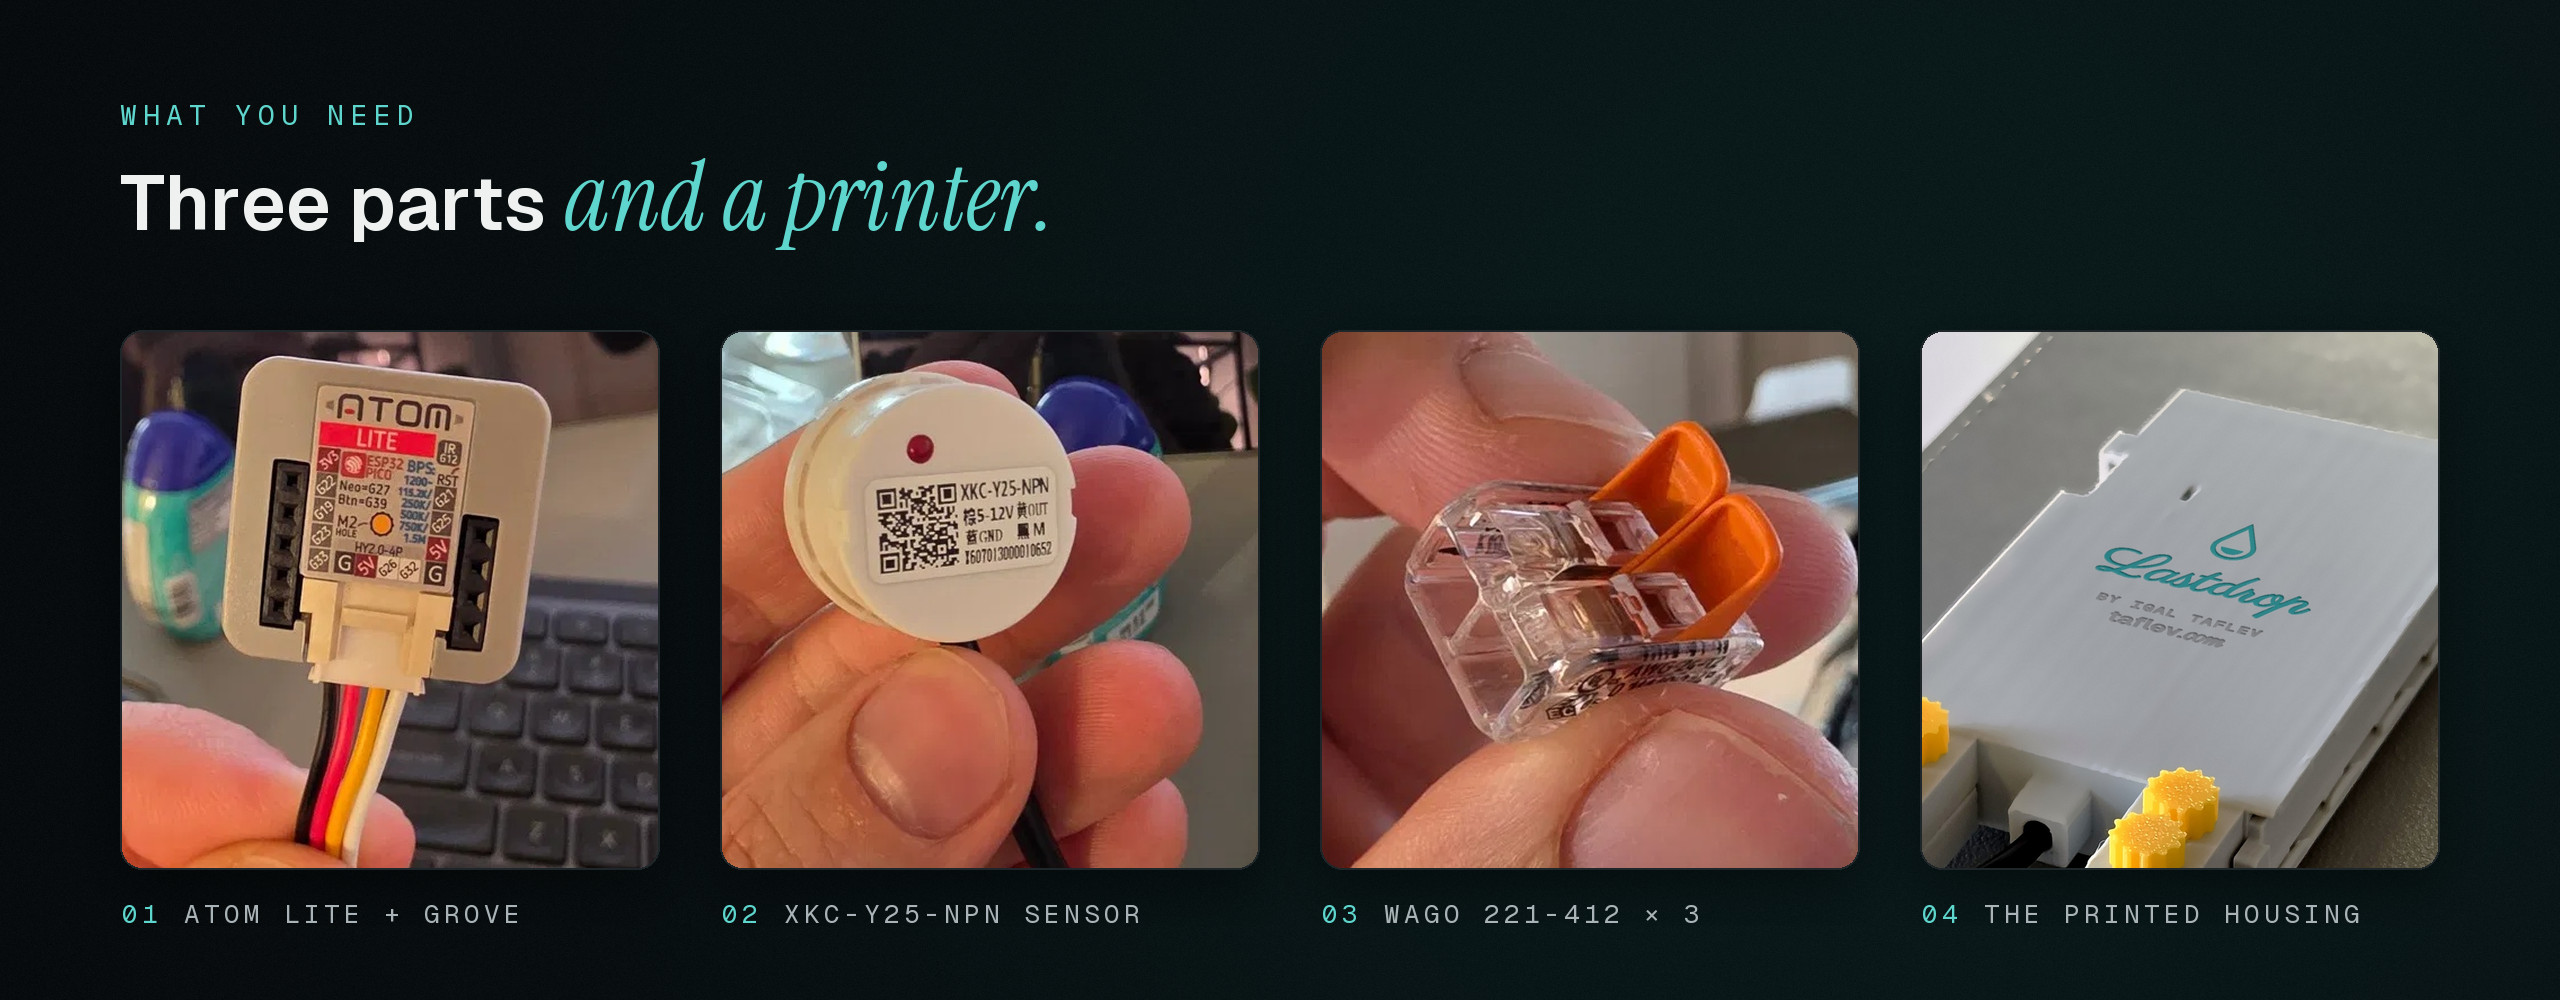
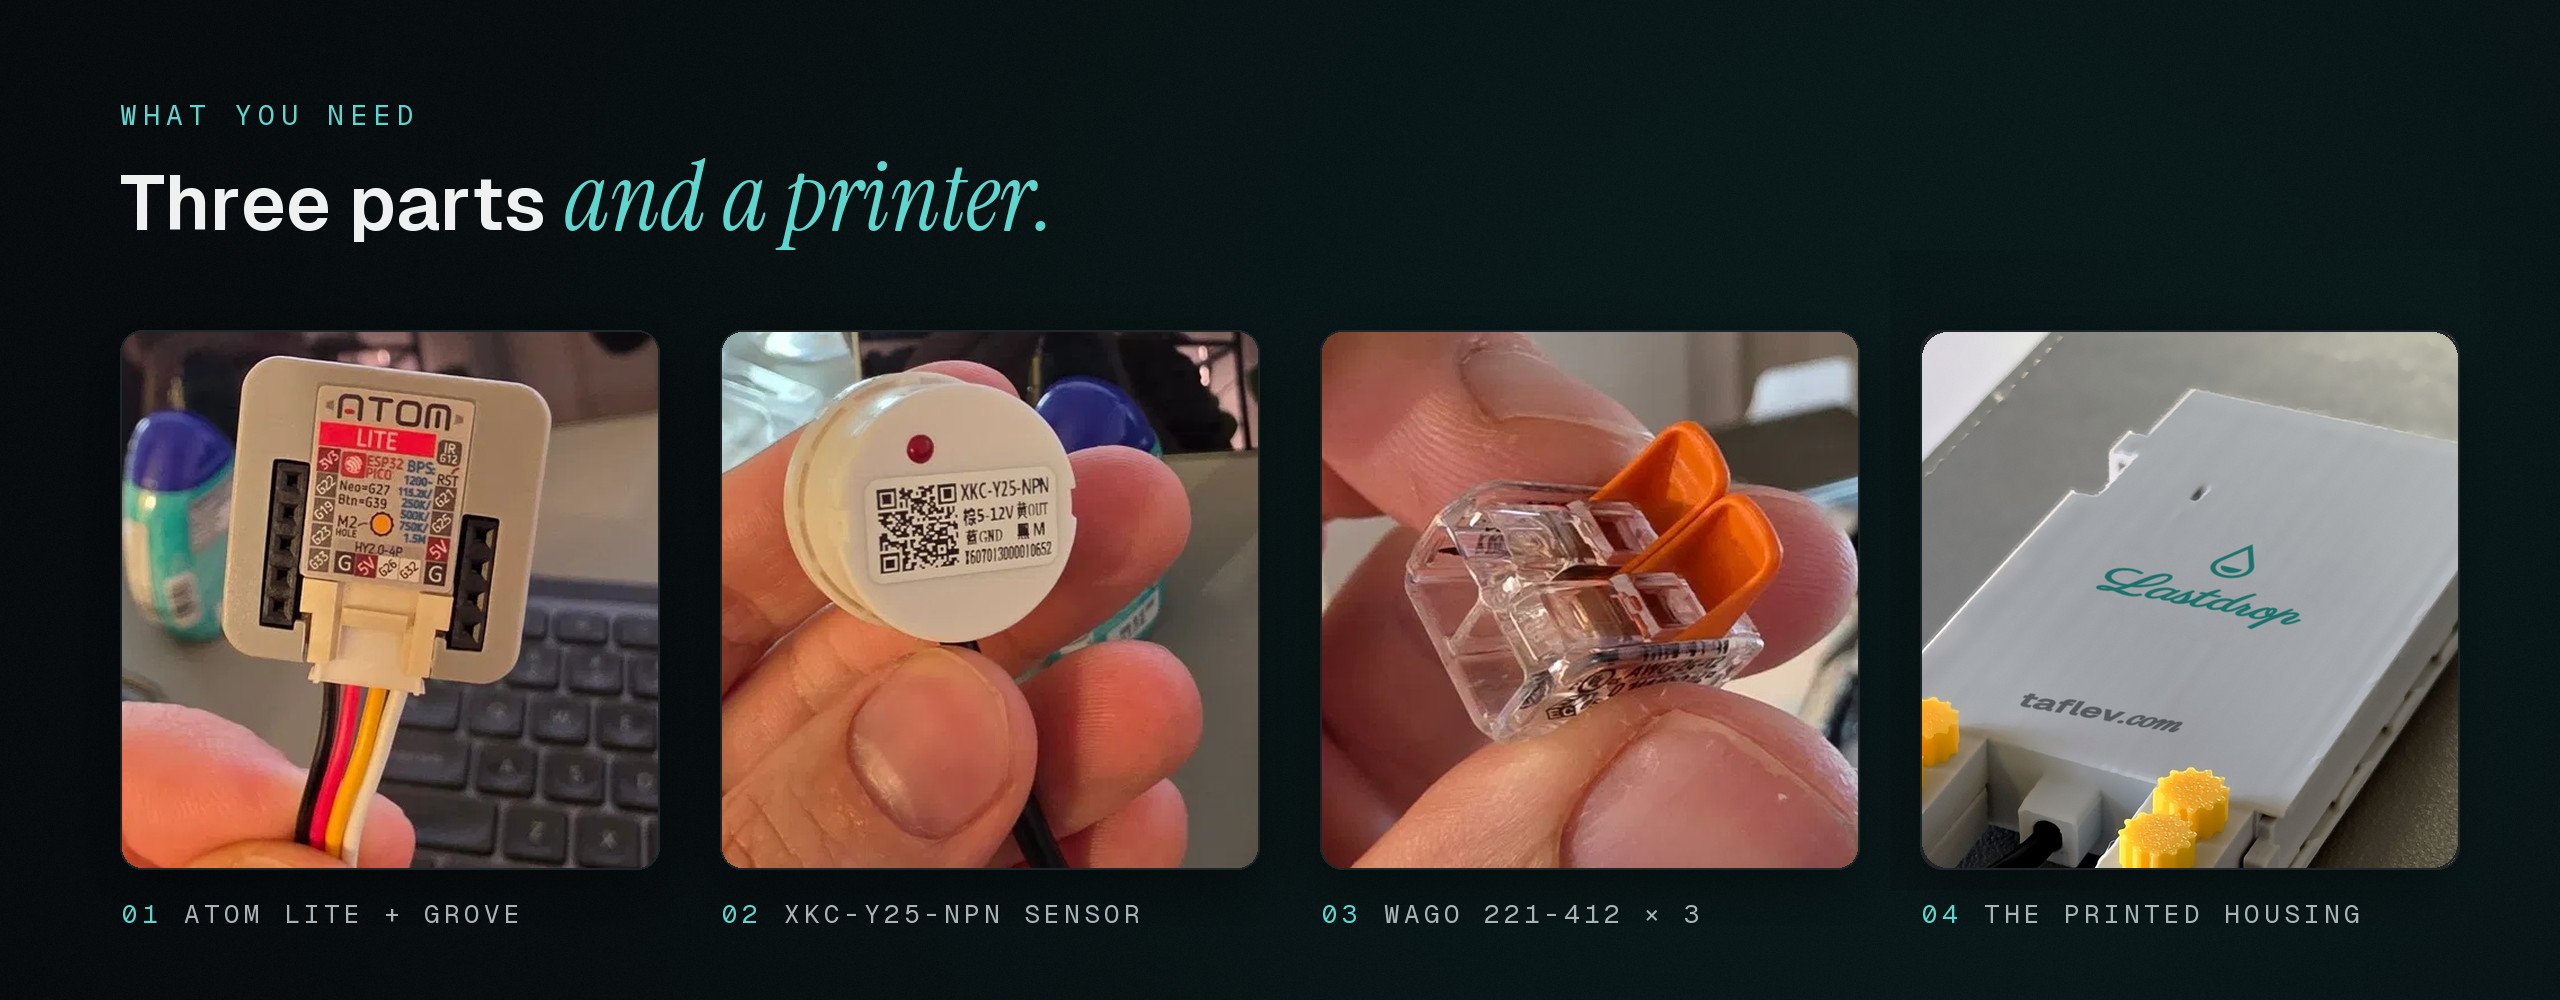
Photos and docs: no more byline on the LED face
The close-up photo of the first print still showed the old byline. The engraving in it is redrawn
to the current layout (logo, taflev.com at the bottom), in panel-real and panel-parts.

diff --git a/3d/housing/build.py b/3d/housing/build.py
@@ -45,7 +45,7 @@ NAME_GROW = 0.20                                 # outline grown per side: the s
 # line: (text, cap/x height, extra letter spacing, grow) in BYLINE_FONT, or a dict of font segments on one baseline (see branding.rich_line)
 import os
 _F = lambda n: os.path.join(os.path.dirname(os.path.abspath(__file__)), "..", "fonts", n)
-BYLINE = []                                     # 2026-11-26: "BY IGAL TAFLEV" removed (Igal); was 1.8 mm caps, unreadable in print
+BYLINE = []                                     # 2026-11-26: the byline line under the name was removed (Igal); its 1.8 mm caps were unreadable in print
 # site name on its own, plain grey engraving at the bottom of the LED face (was 2.1 mm under the name, too small to read)
 URL = {"h": 3.0, "ref": "x", "segments": [("taflev", _F("Geist-600.ttf"), 0.0, 0.10),
                                           (".com", _F("InstrumentSerif-Italic.ttf"), 0.0, 0.18)]}

diff --git a/3d/fonts/README.md b/3d/fonts/README.md
@@ -6,7 +6,7 @@ SIL Open Font License 1.1 (license text next to each font).
 | File | Font | Used for |
 |---|---|---|
 | `Parisienne-Regular.ttf` | [Parisienne](https://fonts.google.com/specimen/Parisienne) | the *Lastdrop* name |
-| `GeistMono-400.ttf` | [Geist Mono](https://github.com/vercel/geist-font), fixed at weight 400 | BY IGAL TAFLEV |
+| `GeistMono-400.ttf` | [Geist Mono](https://github.com/vercel/geist-font), fixed at weight 400 | default font for the engraved text lines (no text uses it now) |
 | `Geist-600.ttf` | [Geist](https://github.com/vercel/geist-font), fixed at weight 600 | taflev |
 | `InstrumentSerif-Italic.ttf` | [Instrument Serif](https://github.com/Instrument/instrument-serif) | .com |
 
